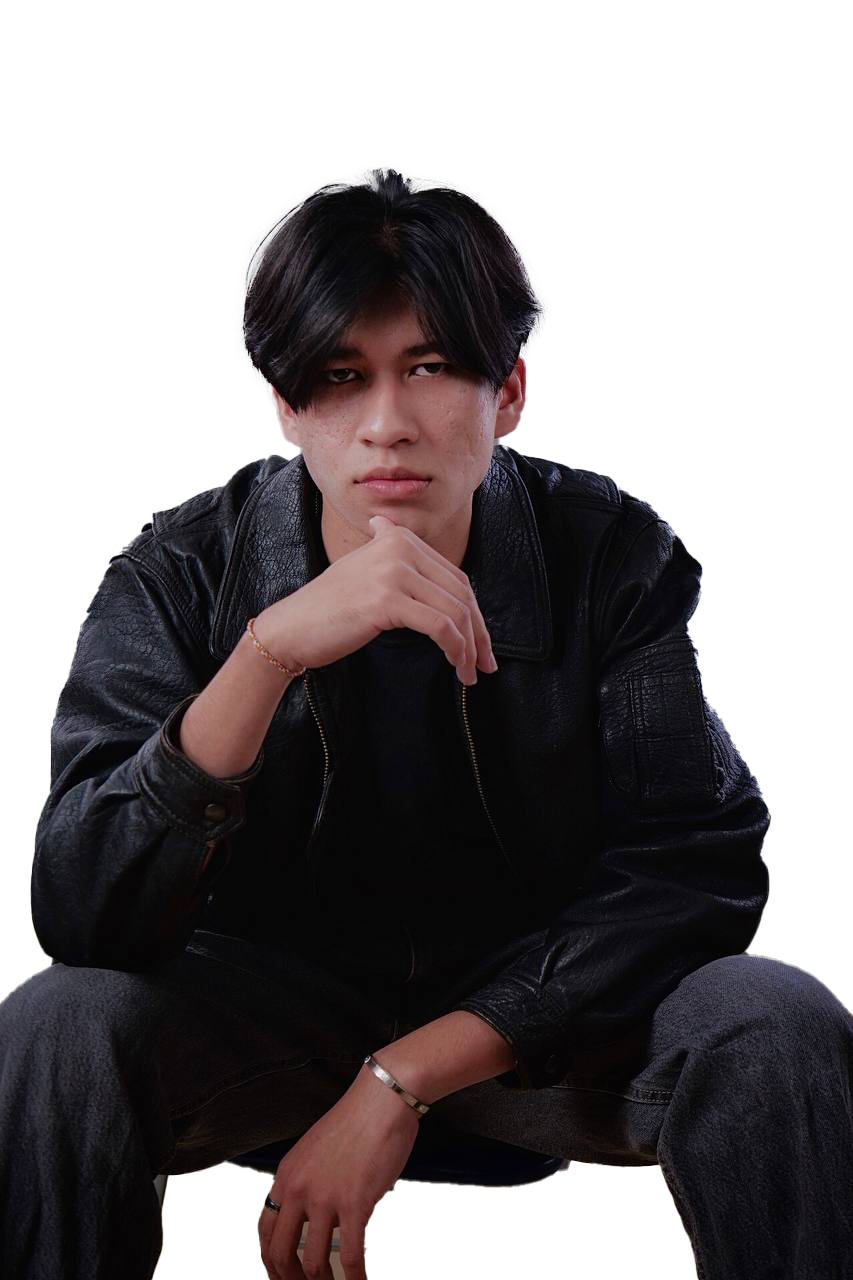
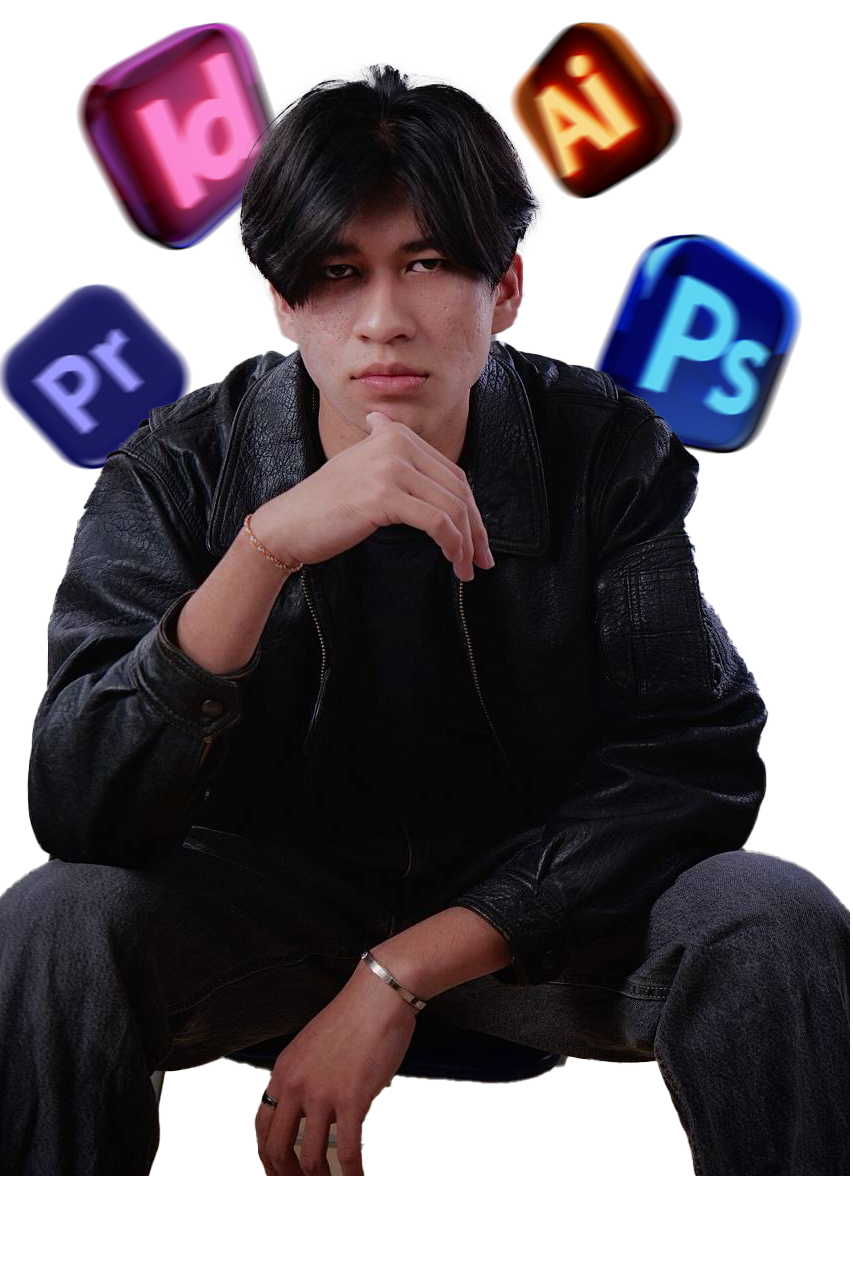
reupload

diff --git a/index.html b/index.html
@@ -226,7 +226,7 @@ https://templatemo.com/tm-578-first-portfolio
                         </div>
 
                         <div class="col-lg-2 col-4 clients-item-height">
-                            <img src="images/Figma.png" class="clients-image img-fluid" alt="">
+                            <img src="images/Id logo.png" class="clients-image img-fluid" alt="">
                         </div>
 
                         <div class="col-lg-2 col-4 me-auto clients-item-height">
@@ -236,11 +236,11 @@ https://templatemo.com/tm-578-first-portfolio
                     </div>
                     <div class="row align-items-center">
                         <div class="col-lg-2 col-4 ms-auto clients-item-height">
-                            <img src="" class="clients-image img-fluid" alt="">
+                            <img src="images/Adobe_Photoshop_Lightroom_CC_logo.svg.png" class="clients-image img-fluid" alt="">
                         </div>
 
                         <div class="col-lg-2 col-4 clients-item-height">
-                            <img src="images/Id logo.png" class="clients-image img-fluid" alt="">
+                            <img src="images/Figma.png" class="clients-image img-fluid" alt="">
                         </div>
 
                         <div class="col-lg-2 col-4 clients-item-height">
@@ -248,11 +248,11 @@ https://templatemo.com/tm-578-first-portfolio
                         </div>
 
                         <div class="col-lg-2 col-4 clients-item-height">
-                            <img src="" class="clients-image img-fluid" alt="">
+                            <img src="images/DaVinci_Resolve_Studio.png" class="clients-image img-fluid" alt="">
                         </div>
 
                         <div class="col-lg-2 col-4 me-auto clients-item-height">
-                            <img src="" class="clients-image img-fluid" alt="">
+                            <img src="images/capcut-logo-on-transparent-white-background-free-vector.jpg" class="clients-image img-fluid" alt="">
                         </div>
 
                     </div>
